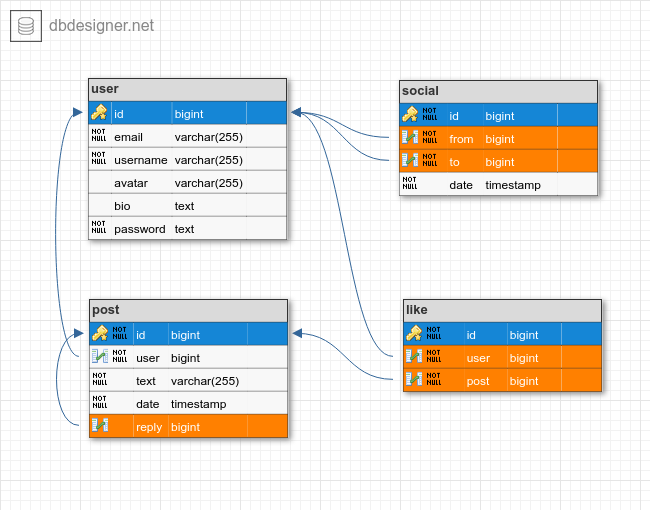
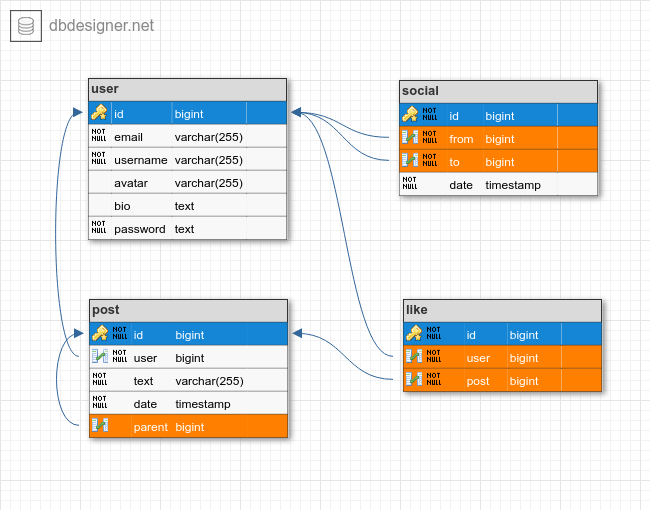
posts

Changed region(s): [[0.1846, 0.6471, 0.3692, 0.8529]]

diff --git a/pamps/routes/post.py b/pamps/routes/post.py
@@ -1,0 +1,73 @@
+from typing import List
+
+from fastapi import APIRouter
+from fastapi.exceptions import HTTPException
+from sqlmodel import Session, select
+
+from pamps.auth import AuthenticatedUser
+from pamps.db import ActiveSession
+from pamps.models.post import (
+    Post,
+    PostRequest,
+    PostResponse,
+    PostResponseWithReplies,
+)
+from pamps.models.user import User
+
+router = APIRouter()
+
+
+@router.get("/", response_model=List[PostResponse])
+async def list_posts(*, session: Session = ActiveSession):
+    """List all posts without replies"""
+    query = select(Post).where(Post.parent == None)
+    posts = session.exec(query).all()
+    return posts
+
+
+@router.get("/{post_id}/", response_model=PostResponseWithReplies)
+async def get_post_by_post_id(
+    *,
+    session: Session = ActiveSession,
+    post_id: int,
+):
+    """Get post by post_id"""
+    query = select(Post).where(Post.id == post_id)
+    post = session.exec(query).first()
+    if not post:
+        raise HTTPException(status_code=404, detail="Post not found")
+    return post
+
+
+@router.get("/user/{username}/", response_model=List[PostResponse])
+async def get_posts_by_username(
+    *,
+    session: Session = ActiveSession,
+    username: str,
+    include_replies: bool = False,
+):
+    """Get posts by username"""
+    filters = [User.username == username]
+    if not include_replies:
+        filters.append(Post.parent == None)
+    query = select(Post).join(User).where(*filters)
+    posts = session.exec(query).all()
+    return posts
+
+
+@router.post("/", response_model=PostResponse, status_code=201)
+async def create_post(
+    *,
+    session: Session = ActiveSession,
+    user: User = AuthenticatedUser,
+    post: PostRequest,
+):
+    """Creates new post"""
+
+    post.user_id = user.id
+
+    db_post = Post.from_orm(post)  # transform PostRequest in Post
+    session.add(db_post)
+    session.commit()
+    session.refresh(db_post)
+    return db_post

diff --git a/pamps/models/post.py b/pamps/models/post.py
@@ -1,7 +1,7 @@
 """Post related data models"""
 
 from datetime import datetime
-from typing import TYPE_CHECKING, List, Optional
+from typing import TYPE_CHECKING, Optional
 
 from pydantic import BaseModel, Extra
 from sqlmodel import Field, Relationship, SQLModel
@@ -18,27 +18,45 @@ class Post(SQLModel, table=True):
     date: datetime = Field(default_factory=datetime.utcnow, nullable=False)
 
     user_id: Optional[int] = Field(foreign_key="user.id")
-    reply_id: Optional[int] = Field(foreign_key="post.id")
+    parent_id: Optional[int] = Field(foreign_key="post.id")
 
     # It populates a `.posts` attribute to the `User` model.
     user: Optional["User"] = Relationship(back_populates="posts")
 
-    # TODO: add .replies here
+    # It populates `.replies` on this model
+    parent: Optional["Post"] = Relationship(
+        back_populates="replies",
+        sa_relationship_kwargs=dict(remote_side="Post.id"),
+    )
+    # This lists all children to this post
+    replies: list["Post"] = Relationship(back_populates="parent")
+
+    def __lt__(self, other):
+        """This enables post.replies.sort() to sort by date"""
+        return self.date < other.date
 
 
 class PostResponse(BaseModel):
     """Serializer for Post Response"""
 
+    id: int
     text: str
     date: datetime
     user_id: int
-    reply_id: Optional[int]
+    parent_id: Optional[int]
+
+
+class PostResponseWithReplies(PostResponse):
+    replies: Optional[list["PostResponse"]] = None
+
+    class Config:
+        orm_mode = True
 
 
 class PostRequest(BaseModel):
     """Serializer for Post request payload"""
 
-    reply_id: Optional[int]
+    parent_id: Optional[int]
     text: str
 
     class Config:

diff --git a/migrations/versions/f432efb19d1a_parent.py b/migrations/versions/f432efb19d1a_parent.py
@@ -1,0 +1,35 @@
+"""parent
+
+Revision ID: f432efb19d1a
+Revises: f9b269f8d5f8
+Create Date: 2022-11-17 14:10:42.494618
+
+"""
+from alembic import op
+import sqlalchemy as sa
+import sqlmodel
+
+
+# revision identifiers, used by Alembic.
+revision = 'f432efb19d1a'
+down_revision = 'f9b269f8d5f8'
+branch_labels = None
+depends_on = None
+
+
+def upgrade() -> None:
+    # ### commands auto generated by Alembic - please adjust! ###
+    op.add_column('post', sa.Column('parent_id', sa.Integer(), nullable=True))
+    op.drop_constraint('post_reply_id_fkey', 'post', type_='foreignkey')
+    op.create_foreign_key(None, 'post', 'post', ['parent_id'], ['id'])
+    op.drop_column('post', 'reply_id')
+    # ### end Alembic commands ###
+
+
+def downgrade() -> None:
+    # ### commands auto generated by Alembic - please adjust! ###
+    op.add_column('post', sa.Column('reply_id', sa.INTEGER(), autoincrement=False, nullable=True))
+    op.drop_constraint(None, 'post', type_='foreignkey')
+    op.create_foreign_key('post_reply_id_fkey', 'post', 'post', ['reply_id'], ['id'])
+    op.drop_column('post', 'parent_id')
+    # ### end Alembic commands ###

diff --git a/pamps/cli.py b/pamps/cli.py
@@ -5,7 +5,7 @@ from sqlmodel import Session, select
 
 from .config import settings
 from .db import engine
-from .models import User
+from .models import Post, User
 
 main = typer.Typer(name="Pamps CLI")
 
@@ -19,6 +19,7 @@ def shell():
         "select": select,
         "session": Session(engine),
         "User": User,
+        "Post": Post,
     }
     typer.echo(f"Auto imports: {list(_vars.keys())}")
     try:

diff --git a/pamps/routes/__init__.py b/pamps/routes/__init__.py
@@ -1,9 +1,11 @@
 from fastapi import APIRouter
 
 from .auth import router as auth_router
+from .post import router as post_router
 from .user import router as user_router
 
 main_router = APIRouter()
 
 main_router.include_router(auth_router, tags=["auth"])
 main_router.include_router(user_router, prefix="/user", tags=["user"])
+main_router.include_router(post_router, prefix="/post", tags=["post"])

diff --git a/pamps/auth.py b/pamps/auth.py
@@ -120,8 +120,6 @@ async def get_current_active_user(
     current_user: User = Depends(get_current_user),
 ) -> User:
     """Wraps the sync get_active_user for sync calls"""
-    if current_user.disabled:
-        raise HTTPException(status_code=400, detail="Inactive user")
     return current_user
 
 

diff --git a/docs/README.md b/docs/README.md
@@ -404,7 +404,7 @@ services:
     volumes:
       - $HOME/.postgres/pamps_db/data/postgresql:/var/lib/postgresql/data
     ports:
-      - "5435:5432"
+      - "5432:5432"
     environment:
       - POSTGRES_DBS=pamps, pamps_test
       - POSTGRES_USER=postgres
@@ -1140,22 +1140,99 @@ Agora vamos criar as rotas de conteúdo e exigir o token para postar
 
 `pamps/models/post.py`
 ```python
+"""Post related data models"""
+
+from datetime import datetime
+from typing import TYPE_CHECKING, Optional
+
+from pydantic import BaseModel, Extra
+from sqlmodel import Field, Relationship, SQLModel
+
+if TYPE_CHECKING:
+    from project_name.security import User
+
+
+class Post(SQLModel, table=True):
+    """Represents the Post Model"""
+
+    id: Optional[int] = Field(default=None, primary_key=True)
+    text: str
+    date: datetime = Field(default_factory=datetime.utcnow, nullable=False)
+
+    user_id: Optional[int] = Field(foreign_key="user.id")
+    parent_id: Optional[int] = Field(foreign_key="post.id")
+
+    # It populates a `.posts` attribute to the `User` model.
+    user: Optional["User"] = Relationship(back_populates="posts")
+
+    # It populates `.replies` on this model
+    parent: Optional["Post"] = Relationship(
+        back_populates="replies",
+        sa_relationship_kwargs=dict(remote_side="Post.id"),
+    )
+    # This lists all children to this post
+    replies: list["Post"] = Relationship(back_populates="parent")
+
+    def __lt__(self, other):
+        """This enables post.replies.sort() to sort by date"""
+        return self.date < other.date
+
+
+class PostResponse(BaseModel):
+    """Serializer for Post Response"""
+
+    text: str
+    date: datetime
+    user_id: int
+    parent_id: Optional[int]
+
+
+class PostRequest(BaseModel):
+    """Serializer for Post request payload"""
+
+    parent_id: Optional[int]
+    text: str
+
+    class Config:
+        extra = Extra.allow
+        arbitrary_types_allowed = True
 
 ```
 
 `pamps/models/user.py`
 ```python
 
+class User...
+    ...
+    # it populates the .user attribute on the Content Model
+    posts: List["Post"] = Relationship(back_populates="user")
 ```
 
 `pamps/models/__init__.py`
 ```python
+from sqlmodel import SQLModel
 
+from .post import Post
+from .user import User
+
+__all__ = ["User", "SQLModel", "Post"]
+```
+
+E para facilitar a vida vamos adicionar também ao `cli.py`
+
+`pamps/cli.py`
+```python
+from .models import Post, User
+...
+_vars = {
+    ...
+    "Post": Post,
+}
 ```
 
 ## Database Migration
 
-Agora precisamos chamar o **alambic** para gerar a database migration relativa
+Agora precisamos chamar o **alembic** para gerar a database migration relativa
 a  nova tabela `post`.
 
 Dentro do container shell
